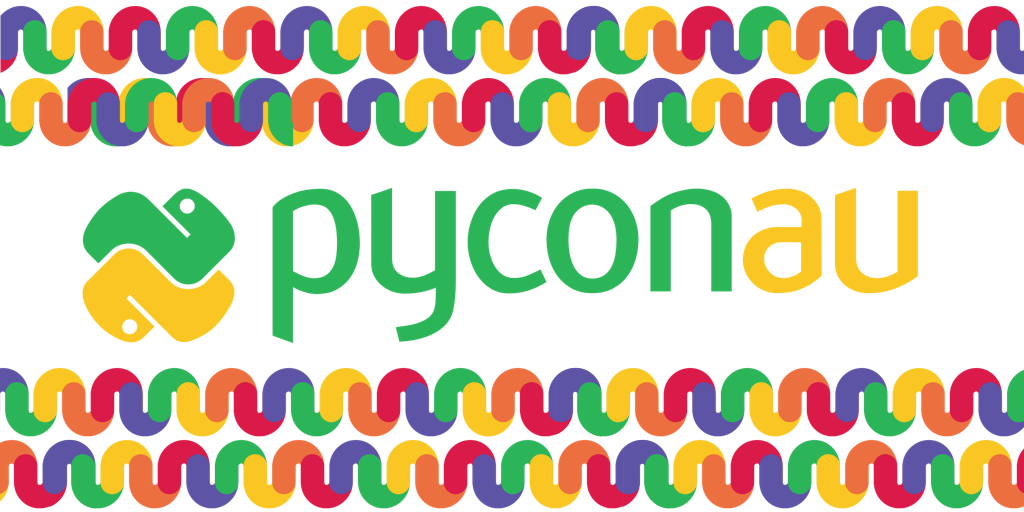
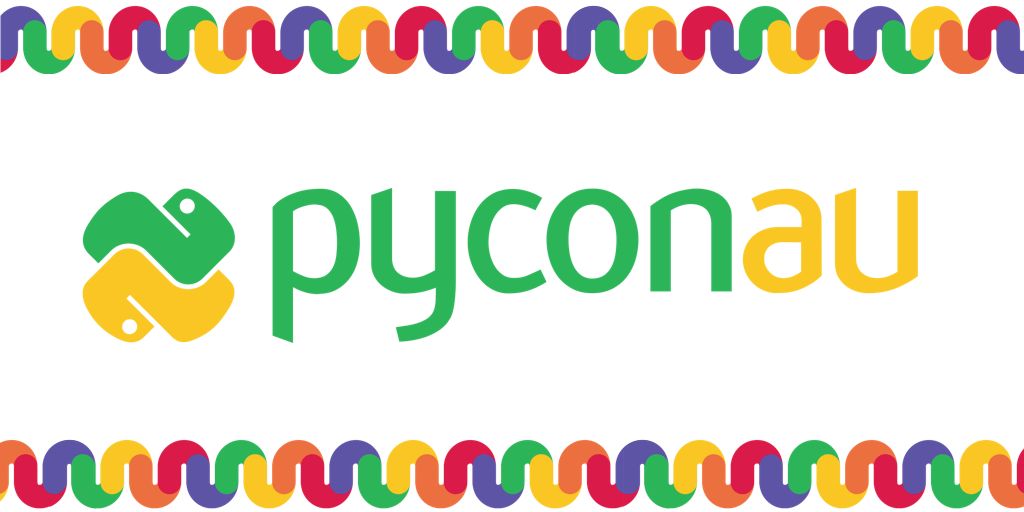
Snakes

Changed region(s): [[0.0, 0.7188, 1.0, 0.875], [0.0, 0.125, 1.0, 0.3125]]

diff --git a/_pages/homepage.md b/_pages/homepage.md
@@ -2,7 +2,7 @@
 layout: page
 title: PyCon AU 2018
 permalink: /
-snake: greengold
+snake: rainbow
 card: /static/img/cards/home.jpg
 ---
 
@@ -11,6 +11,9 @@ card: /static/img/cards/home.jpg
 <span class="abstract">
 PyCon AU, the national Python Language conference, is on again this August in Sydney, at the **International Convention Center, Sydney**, August 24 - 28 2018. 
 </span>
+<hr>
+
+<p align="center"><img height="350px" src="{{site.url}}/static/img/pyconau-large.png"></p>
 <hr>
 
 {% assign latestnews = site.posts.first %}

diff --git a/_talks/993-invited-speaker-3.md b/_talks/993-invited-speaker-3.md
@@ -4,7 +4,7 @@ permalink: /talks/tracy
 talkid: 993
 type: keynote
 title: Tracy Osborn
-snake: greengold
+snake: rainbow
 subtitle: Clueless
 speakers:
     - name: Tracy Osborn

diff --git a/_pages/sponsor.md b/_pages/sponsor.md
@@ -2,7 +2,7 @@
 layout: page
 title: Sponsor
 permalink: /sponsor/
-snake: greengold
+snake: rainbow
 card: /static/img/cards/sponsor.jpg
 ---
 <hr>

diff --git a/_pages/assistance.md b/_pages/assistance.md
@@ -1,7 +1,7 @@
 ---
 layout: page
 title: Financial Assistance
-snake: greengold
+snake: rainbow
 permalink: /assistance/
 sponsors: true
 ---

diff --git a/_pages/student-showcase.md b/_pages/student-showcase.md
@@ -2,7 +2,7 @@
 layout: page
 title: Student Showcase
 permalink: /speak/showcase
-snake: greengold
+snake: rainbow
 sponsors: true
 ---
 

diff --git a/_pages/conduct.md b/_pages/conduct.md
@@ -2,7 +2,7 @@
 layout: page
 title: Code of Conduct
 permalink: /conduct/
-snake: greengold
+snake: rainbow
 sponsors: true
 ---
 <hr>

diff --git a/_pages/speak.md b/_pages/speak.md
@@ -2,7 +2,7 @@
 layout: page
 title: Speak
 permalink: /speak/
-snake: greengold
+snake: rainbow
 sponsors: true
 ---
 

diff --git a/_pages/cfp-guidelines.md b/_pages/cfp-guidelines.md
@@ -1,7 +1,7 @@
 ---
 layout: page
 title: CFP Guidelines
-snake: greengold
+snake: rainbow
 sponsors: true
 ---
 
